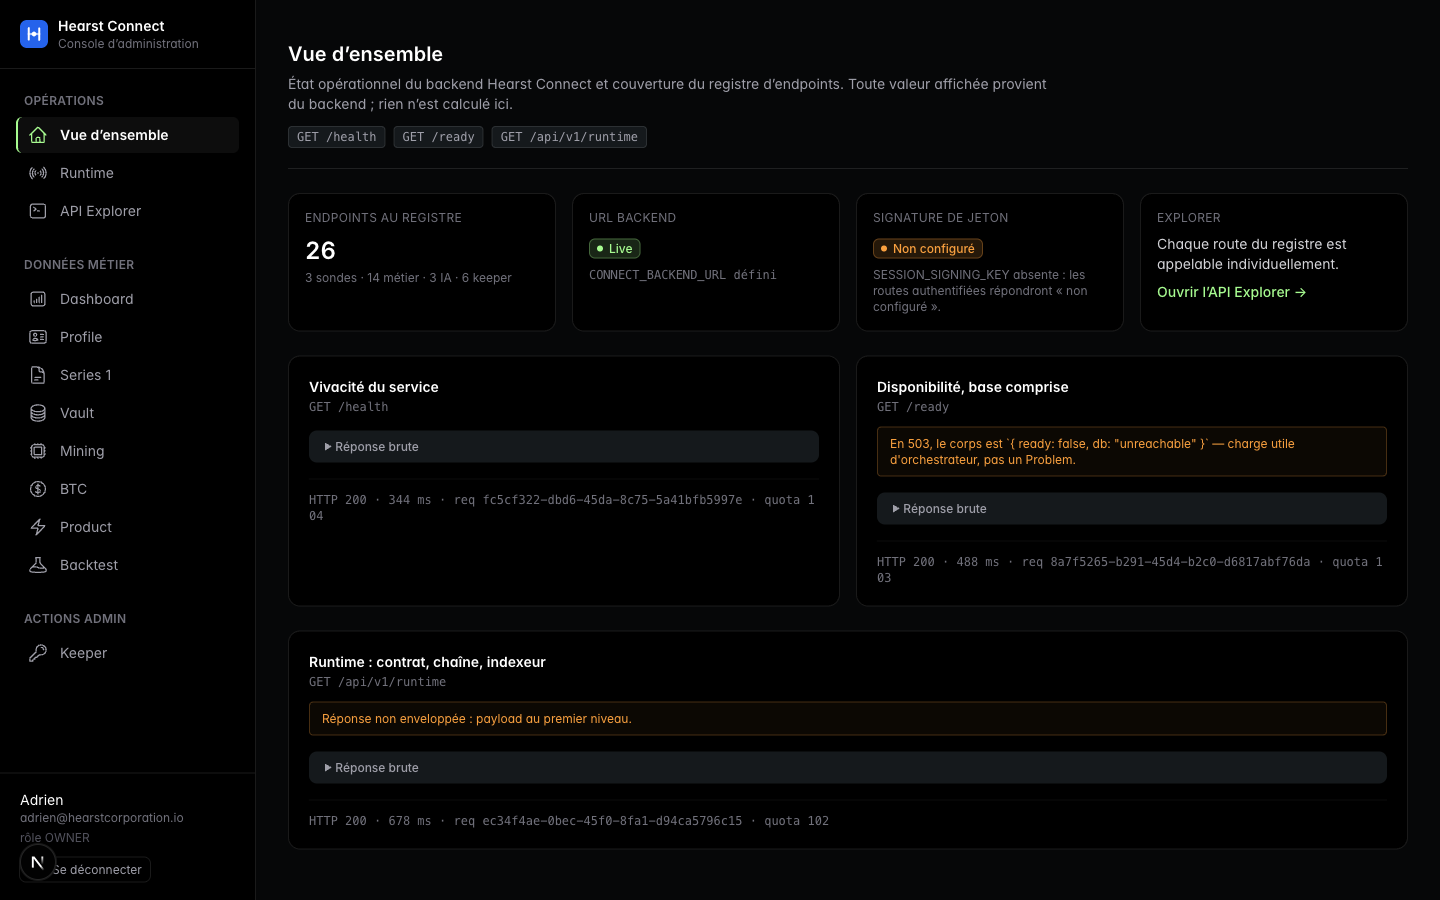
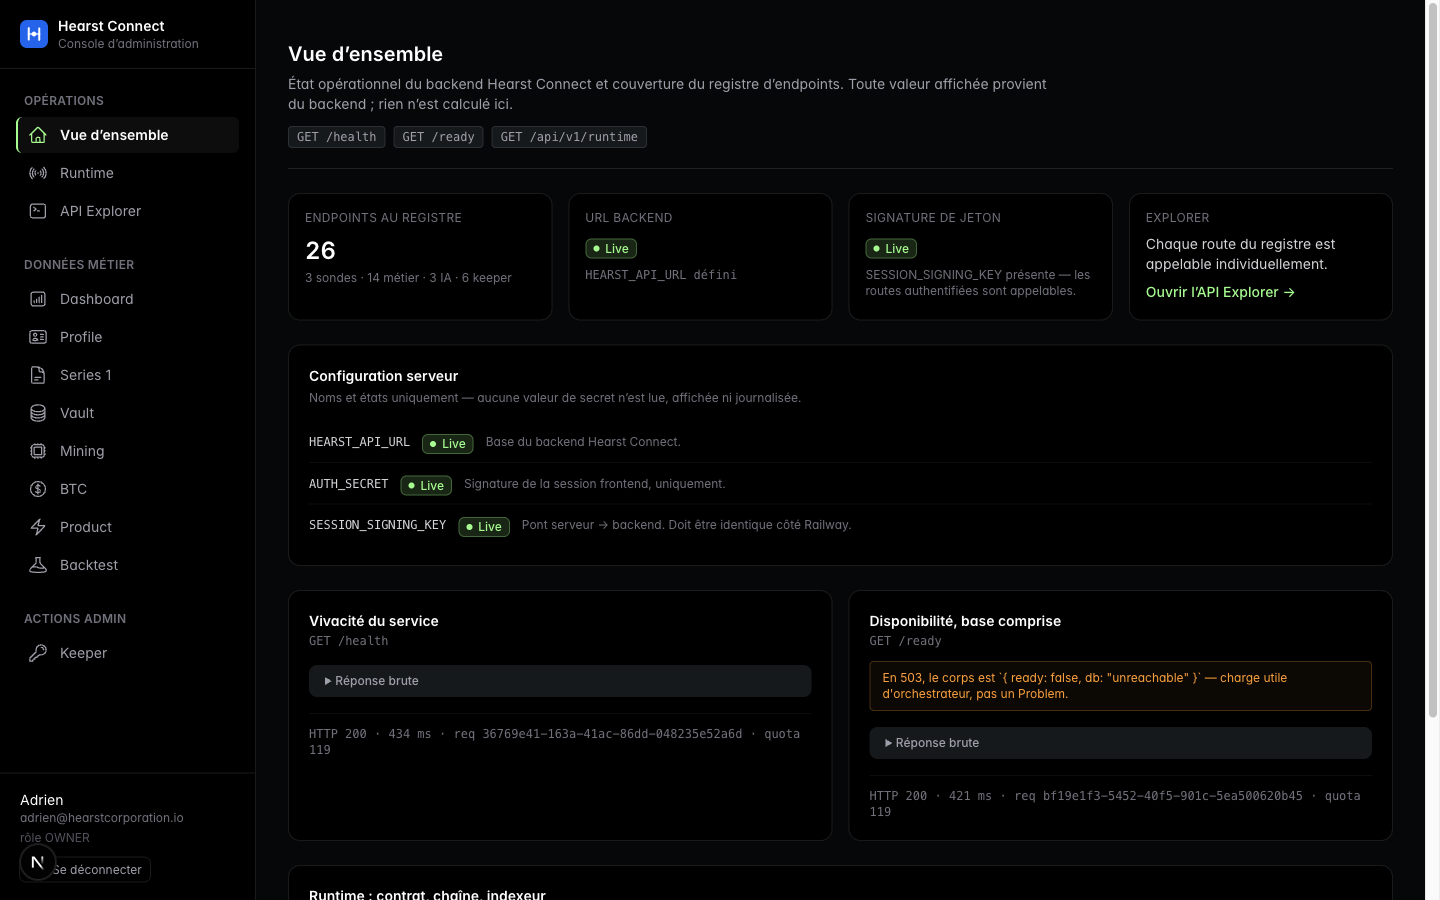
config(backend): canon d'environnement et bridge vérifié contre Railway
Backend canonique : hearst-connect-backend-production.up.railway.app.
La variable devient HEARST_API_URL (remplace CONNECT_BACKEND_URL).

src/lib/env.ts — canon serveur, source unique de lecture de process.env pour
HEARST_API_URL, AUTH_SECRET et SESSION_SIGNING_KEY :
  - `server-only` : le build échoue si le module atteint un bundle client ;
  - aucune variable NEXT_PUBLIC_, aucun secret exposé au navigateur ;
  - validation au démarrage (announceConfigurationOnce) qui signale les
    variables manquantes par leur NOM — jamais une valeur, jamais un fragment ;
  - fail-closed : URL absente ou clé trop courte → état nommé, jamais de repli.

La Vue d'ensemble expose désormais l'état de configuration (nom + statut de
chaque variable), sans en lire aucune valeur.

Vérification de bout en bout, avec la clé alignée sur le service Railway
hearst-connect-backend : GET /api/v1/dashboard répond HTTP 200 en 1150 ms,
req 294bde13-09e2-4088-932f-b752b79ef9d8, quota 118. Le backend ACCEPTE le
jeton Bearer signé — le pont d'authentification est prouvé, pas supposé.

Le « Non configuré » désormais affiché sur les données métier vient du backend
lui-même (meta.status, raison « see per-field reason in data »), pas d'une
carence du frontend. Il est transmis sans requalification.

Preuve ajoutée : dashboard-authenticated-1440x900.png.
Aucune valeur de secret n'a été affichée, journalisée ni commitée.

typecheck ✓ · lint ✓ · 45 tests ✓ · build ✓ 12 routes admin · check:mocks ✓
[…]

diff --git a/src/lib/env.ts b/src/lib/env.ts
@@ -1,0 +1,143 @@
+import 'server-only'
+
+/**
+ * Canon des variables d'environnement serveur.
+ *
+ * Source unique : aucun autre module ne lit `process.env` pour ces clés. La
+ * validation est explicite et fail-closed — une configuration absente ou
+ * invalide produit un état nommé, jamais une valeur de repli ni une donnée
+ * simulée.
+ *
+ * `import 'server-only'` fait échouer le build si ce module atteint un bundle
+ * client. Aucune de ces variables n'est préfixée `NEXT_PUBLIC_` : les secrets
+ * ne sortent pas du serveur.
+ *
+ * RÈGLE ABSOLUE : ce module ne journalise JAMAIS une valeur. Les diagnostics
+ * exposent le NOM d'une variable et son état (présente / absente / invalide),
+ * jamais son contenu.
+ */
+
+export type EnvVarStatus = 'ok' | 'missing' | 'invalid'
+
+export type EnvVarReport = {
+  name: string
+  status: EnvVarStatus
+  /** Rôle de la variable, affichable dans l'UI. */
+  purpose: string
+  /** Ce qui manque ou ne va pas — sans jamais citer la valeur. */
+  detail: string | null
+}
+
+/** Longueur minimale d'un secret de signature, en caractères. */
+const MIN_SECRET_LENGTH = 32
+
+function readSecret(name: string, purpose: string): EnvVarReport {
+  const raw = process.env[name]
+  if (!raw || raw.trim().length === 0) {
+    return { name, status: 'missing', purpose, detail: 'Variable absente.' }
+  }
+  if (raw.trim().length < MIN_SECRET_LENGTH) {
+    return {
+      name,
+      status: 'invalid',
+      purpose,
+      detail: `Trop courte : ${MIN_SECRET_LENGTH} caractères minimum attendus.`,
+    }
+  }
+  return { name, status: 'ok', purpose, detail: null }
+}
+
+function readUrl(name: string, purpose: string): EnvVarReport {
+  const raw = process.env[name]?.trim()
+  if (!raw) {
+    return { name, status: 'missing', purpose, detail: 'Variable absente.' }
+  }
+  try {
+    const url = new URL(raw)
+    if (url.protocol !== 'https:' && url.hostname !== 'localhost' && url.hostname !== '127.0.0.1') {
+      return { name, status: 'invalid', purpose, detail: 'HTTPS exigé hors développement local.' }
+    }
+  } catch {
+    return { name, status: 'invalid', purpose, detail: "Ce n'est pas une URL absolue valide." }
+  }
+  return { name, status: 'ok', purpose, detail: null }
+}
+
+/** URL du backend, sans barre oblique finale. `null` si non configurée. */
+export function backendUrl(): string | null {
+  const raw = process.env.HEARST_API_URL?.trim()
+  if (!raw) return null
+  try {
+    new URL(raw)
+  } catch {
+    return null
+  }
+  return raw.replace(/\/+$/, '')
+}
+
+/** Clé de signature du pont serveur → backend. `null` si absente ou trop courte. */
+export function sessionSigningKey(): string | null {
+  const raw = process.env.SESSION_SIGNING_KEY?.trim()
+  return raw && raw.length >= MIN_SECRET_LENGTH ? raw : null
+}
+
+/** Secret de la session frontend. Ne sert JAMAIS à parler au backend. */
+export function authSecret(): string | null {
+  const raw = process.env.AUTH_SECRET?.trim()
+  return raw && raw.length >= MIN_SECRET_LENGTH ? raw : null
+}
+
+/**
+ * État complet de la configuration serveur, destiné à l'affichage.
+ * Aucune valeur n'y figure — uniquement des noms et des statuts.
+ */
+export function environmentReport(): EnvVarReport[] {
+  return [
+    readUrl('HEARST_API_URL', 'Base du backend Hearst Connect.'),
+    readSecret('AUTH_SECRET', 'Signature de la session frontend, uniquement.'),
+    readSecret('SESSION_SIGNING_KEY', 'Pont serveur → backend. Doit être identique côté Railway.'),
+  ]
+}
+
+export type ConfigHealth = {
+  /** Les sondes publiques sont appelables. */
+  publicReady: boolean
+  /** Les routes authentifiées sont appelables. */
+  authenticatedReady: boolean
+  report: EnvVarReport[]
+}
+
+/**
+ * Validation au démarrage d'un rendu serveur.
+ *
+ * Ne lève pas : une console qui explose n'aide personne à diagnostiquer une
+ * variable manquante. Elle renvoie un état que l'interface rend honnêtement.
+ */
+export function checkConfiguration(): ConfigHealth {
+  const report = environmentReport()
+  const ok = (name: string) => report.find((entry) => entry.name === name)?.status === 'ok'
+
+  return {
+    publicReady: ok('HEARST_API_URL'),
+    authenticatedReady: ok('HEARST_API_URL') && ok('SESSION_SIGNING_KEY'),
+    report,
+  }
+}
+
+/**
+ * Garde-fou de démarrage : signale les manques une seule fois, par leur NOM.
+ * Aucune valeur, aucun fragment de secret n'est écrit dans les journaux.
+ */
+let announced = false
+export function announceConfigurationOnce(): void {
+  if (announced) return
+  announced = true
+
+  const failing = environmentReport().filter((entry) => entry.status !== 'ok')
+  if (failing.length === 0) return
+
+  const lines = failing.map((entry) => `  - ${entry.name} : ${entry.detail} (${entry.purpose})`)
+  console.warn(
+    `[hearst-connect] Configuration incomplète — les surfaces concernées afficheront « non configuré » :\n${lines.join('\n')}`,
+  )
+}

diff --git a/src/app/admin/page.tsx b/src/app/admin/page.tsx
@@ -2,6 +2,7 @@ import { EndpointSection } from '@/components/admin/endpoint-section'
 import { PageHeader } from '@/components/admin/page-header'
 import { StatusBadge } from '@/components/admin/truthful'
 import { BACKEND_ENDPOINTS } from '@/lib/backend/endpoints'
+import { announceConfigurationOnce, checkConfiguration } from '@/lib/env'
 import type { Metadata } from 'next'
 import Link from 'next/link'
 
@@ -26,8 +27,13 @@ function registryCounts() {
 
 export default function AdminOverviewPage() {
   const counts = registryCounts()
-  const configured = Boolean(process.env.CONNECT_BACKEND_URL?.trim())
-  const signingConfigured = Boolean(process.env.SESSION_SIGNING_KEY?.trim())
+
+  // Validation au démarrage : signale une seule fois les variables manquantes,
+  // par leur NOM. Aucune valeur n'est journalisée.
+  announceConfigurationOnce()
+  const config = checkConfiguration()
+  const configured = config.publicReady
+  const signingConfigured = config.authenticatedReady
 
   return (
     <div className="space-y-6">
@@ -51,7 +57,7 @@ export default function AdminOverviewPage() {
             <StatusBadge status={configured ? 'LIVE' : 'NOT_CONFIGURED'} />
           </div>
           <p className="mt-2 font-mono text-xs break-all text-zinc-500">
-            {configured ? 'CONNECT_BACKEND_URL défini' : 'CONNECT_BACKEND_URL absent'}
+            {configured ? 'HEARST_API_URL défini' : 'HEARST_API_URL absent'}
           </p>
         </div>
         <div className="rounded-xl border border-white/10 bg-cockpit-card p-4">
@@ -75,6 +81,24 @@ export default function AdminOverviewPage() {
             Ouvrir l’API Explorer →
           </Link>
         </div>
+      </section>
+
+      <section className="rounded-xl border border-white/10 bg-cockpit-card p-5">
+        <h2 className="text-sm font-semibold text-white">Configuration serveur</h2>
+        <p className="mt-1 text-xs text-zinc-500">
+          Noms et états uniquement — aucune valeur de secret n’est lue, affichée ni journalisée.
+        </p>
+        <dl className="mt-4 divide-y divide-white/5">
+          {config.report.map((entry) => (
+            <div key={entry.name} className="flex flex-wrap items-center gap-x-3 gap-y-1 py-2">
+              <dt className="font-mono text-xs text-zinc-300">{entry.name}</dt>
+              <dd>
+                <StatusBadge status={entry.status === 'ok' ? 'LIVE' : 'NOT_CONFIGURED'} />
+              </dd>
+              <dd className="text-xs text-zinc-500">{entry.detail ?? entry.purpose}</dd>
+            </div>
+          ))}
+        </dl>
       </section>
 
       <div className="grid gap-4 lg:grid-cols-2">

diff --git a/src/lib/backend/client.ts b/src/lib/backend/client.ts
@@ -1,5 +1,6 @@
 import 'server-only'
 
+import { backendUrl } from '@/lib/env'
 import { getSession } from '@/lib/session'
 import { resolved, type Resolved } from '@/lib/resolved'
 import { BACKEND_ENDPOINTS, resolvePath, type BackendEndpoint } from './endpoints'
@@ -55,11 +56,11 @@ export type BackendResult<T> =
 
 const DEFAULT_TIMEOUT_MS = 10_000
 
-/** Pas de repli implicite vers la production : une URL absente est un état. */
-function baseUrl(): string | null {
-  const raw = process.env.CONNECT_BACKEND_URL?.trim()
-  return raw ? raw.replace(/\/+$/, '') : null
-}
+/**
+ * Base du backend, lue par le canon `@/lib/env`. Pas de repli implicite vers
+ * la production : une URL absente est un état, jamais une valeur par défaut.
+ */
+const baseUrl = backendUrl
 
 const isProblem = (body: unknown): body is Problem =>
   typeof body === 'object' && body !== null && 'code' in body && 'detail' in body && 'requestId' in body
@@ -109,7 +110,7 @@ export async function callBackend<T = unknown>(
       keeper: null,
       trace: trace(endpoint, path, startedAt, {}),
       state: resolved.notConfigured(
-        "CONNECT_BACKEND_URL n'est pas défini sur ce déploiement : aucune requête n'est émise.",
+        "HEARST_API_URL n'est pas défini sur ce déploiement : aucune requête n'est émise.",
         { route: path },
       ),
     }

diff --git a/src/app/admin/keeper/page.tsx b/src/app/admin/keeper/page.tsx
@@ -1,6 +1,7 @@
 import { PageHeader } from '@/components/admin/page-header'
 import { StatusBadge } from '@/components/admin/truthful'
 import { endpointsByCategory } from '@/lib/backend/endpoints'
+import { backendUrl, sessionSigningKey } from '@/lib/env'
 import { toBackendRole } from '@/lib/backend/token'
 import { requireSession } from '@/lib/auth'
 import type { Metadata } from 'next'
@@ -15,13 +16,13 @@ export default async function KeeperPage() {
 
   // Prérequis connus AVANT tout appel : sans eux les actions restent inertes.
   const isAdmin = toBackendRole(session.role) === 'admin'
-  const backendConfigured = Boolean(process.env.CONNECT_BACKEND_URL?.trim())
-  const signingConfigured = Boolean(process.env.SESSION_SIGNING_KEY?.trim())
+  const backendConfigured = Boolean(backendUrl())
+  const signingConfigured = Boolean(sessionSigningKey())
 
   const disabledReason = !isAdmin
     ? `Le rôle ${session.role} n’ouvre pas droit aux actions Keeper.`
     : !backendConfigured
-      ? 'CONNECT_BACKEND_URL n’est pas défini : aucune requête ne peut être émise.'
+      ? 'HEARST_API_URL n’est pas défini : aucune requête ne peut être émise.'
       : !signingConfigured
         ? 'SESSION_SIGNING_KEY n’est pas définie : aucun jeton authentifié ne peut être frappé.'
         : null

diff --git a/src/app/admin/api-explorer/page.tsx b/src/app/admin/api-explorer/page.tsx
@@ -1,5 +1,6 @@
 import { PageHeader } from '@/components/admin/page-header'
 import { BACKEND_ENDPOINTS, type EndpointCategory } from '@/lib/backend/endpoints'
+import { backendUrl } from '@/lib/env'
 import type { Metadata } from 'next'
 import { ExplorerRow } from './explorer-row'
 
@@ -15,7 +16,7 @@ const CATEGORY_TITLES: Record<EndpointCategory, string> = {
 
 /** cURL d'exemple, jeton systématiquement expurgé. */
 function curlFor(method: string, path: string, auth: string): string {
-  const base = process.env.CONNECT_BACKEND_URL?.trim() || '$CONNECT_BACKEND_URL'
+  const base = backendUrl() ?? '$HEARST_API_URL'
   const lines = [`curl -X ${method} '${base}${path}'`, `  -H 'Accept: application/json'`, `  -H 'X-Request-Id: <uuid>'`]
   if (auth !== 'public') lines.push(`  -H 'Authorization: Bearer <REDACTED>'`)
   return lines.join(' \\\n')

diff --git a/docs/visual-reviews/HC-ADMIN-001/REVIEW.md b/docs/visual-reviews/HC-ADMIN-001/REVIEW.md
@@ -1,7 +1,7 @@
 # HC-ADMIN-001 — revue visuelle
 
 Captures prises sur `pnpm dev`, branche `feat/hc-admin-001-backend-admin-layout`,
-contre le backend de production `https://connect-api.hearst.app`.
+contre le backend canonique `https://hearst-connect-backend-production.up.railway.app`.
 **Console navigateur vierge sur les six captures.**
 
 ## Ce qui est authentique
@@ -11,10 +11,14 @@ réellement : HTTP 200, `X-Request-Id` et `X-RateLimit-Remaining` visibles dans
 la trace d'appel de chaque section. Aucune donnée n'a été fabriquée pour ces
 captures, et aucun serveur de test n'a été utilisé.
 
-Les routes authentifiées affichent « non configuré » parce que
-`SESSION_SIGNING_KEY` — secret du backend — n'est pas disponible sur ce poste.
-Cet état est le comportement correct du contrat, pas un placeholder : le
-frontend refuse d'inventer une donnée qu'il ne peut pas obtenir.
+**Le bridge authentifié est vérifié.** `SESSION_SIGNING_KEY` a été alignée sur
+la valeur du service Railway `hearst-connect-backend` : le backend accepte le
+jeton Bearer et répond HTTP 200 sur `/api/v1/dashboard`
+(`dashboard-authenticated-1440x900.png`, trace `req 294bde13… · quota 118`).
+
+Le « Non configuré » qui s'affiche alors n'est plus une absence de clé côté
+frontend : c'est le `meta.status` calculé par le backend lui-même, avec sa
+raison `see per-field reason in data`, transmis sans requalification.
 
 ## Captures
 
@@ -29,8 +33,8 @@ frontend refuse d'inventer une donnée qu'il ne peut pas obtenir.
 
 ## Limites assumées
 
-Les états `LIVE` sur données métier ne sont pas capturés : ils exigent
-`SESSION_SIGNING_KEY` et un compte backend réel. Les produire aurait demandé un
-serveur de simulation — la mission l'autorise pour les tests, mais interdit de
-présenter sa sortie comme une preuve de backend live. Nous avons préféré ne pas
-en produire plutôt que d'en produire une ambiguë.
+Aucun état `LIVE` sur données métier n'est capturé — non par défaut de
+configuration, mais parce que le backend lui-même renvoie aujourd'hui
+`NOT_CONFIGURED` sur l'agrégat investisseur (contrat non déployé, indexeur
+absent). Le frontend le rend tel quel. Ces captures montreront `LIVE` dès que le
+backend le renverra, sans aucune modification du frontend.
